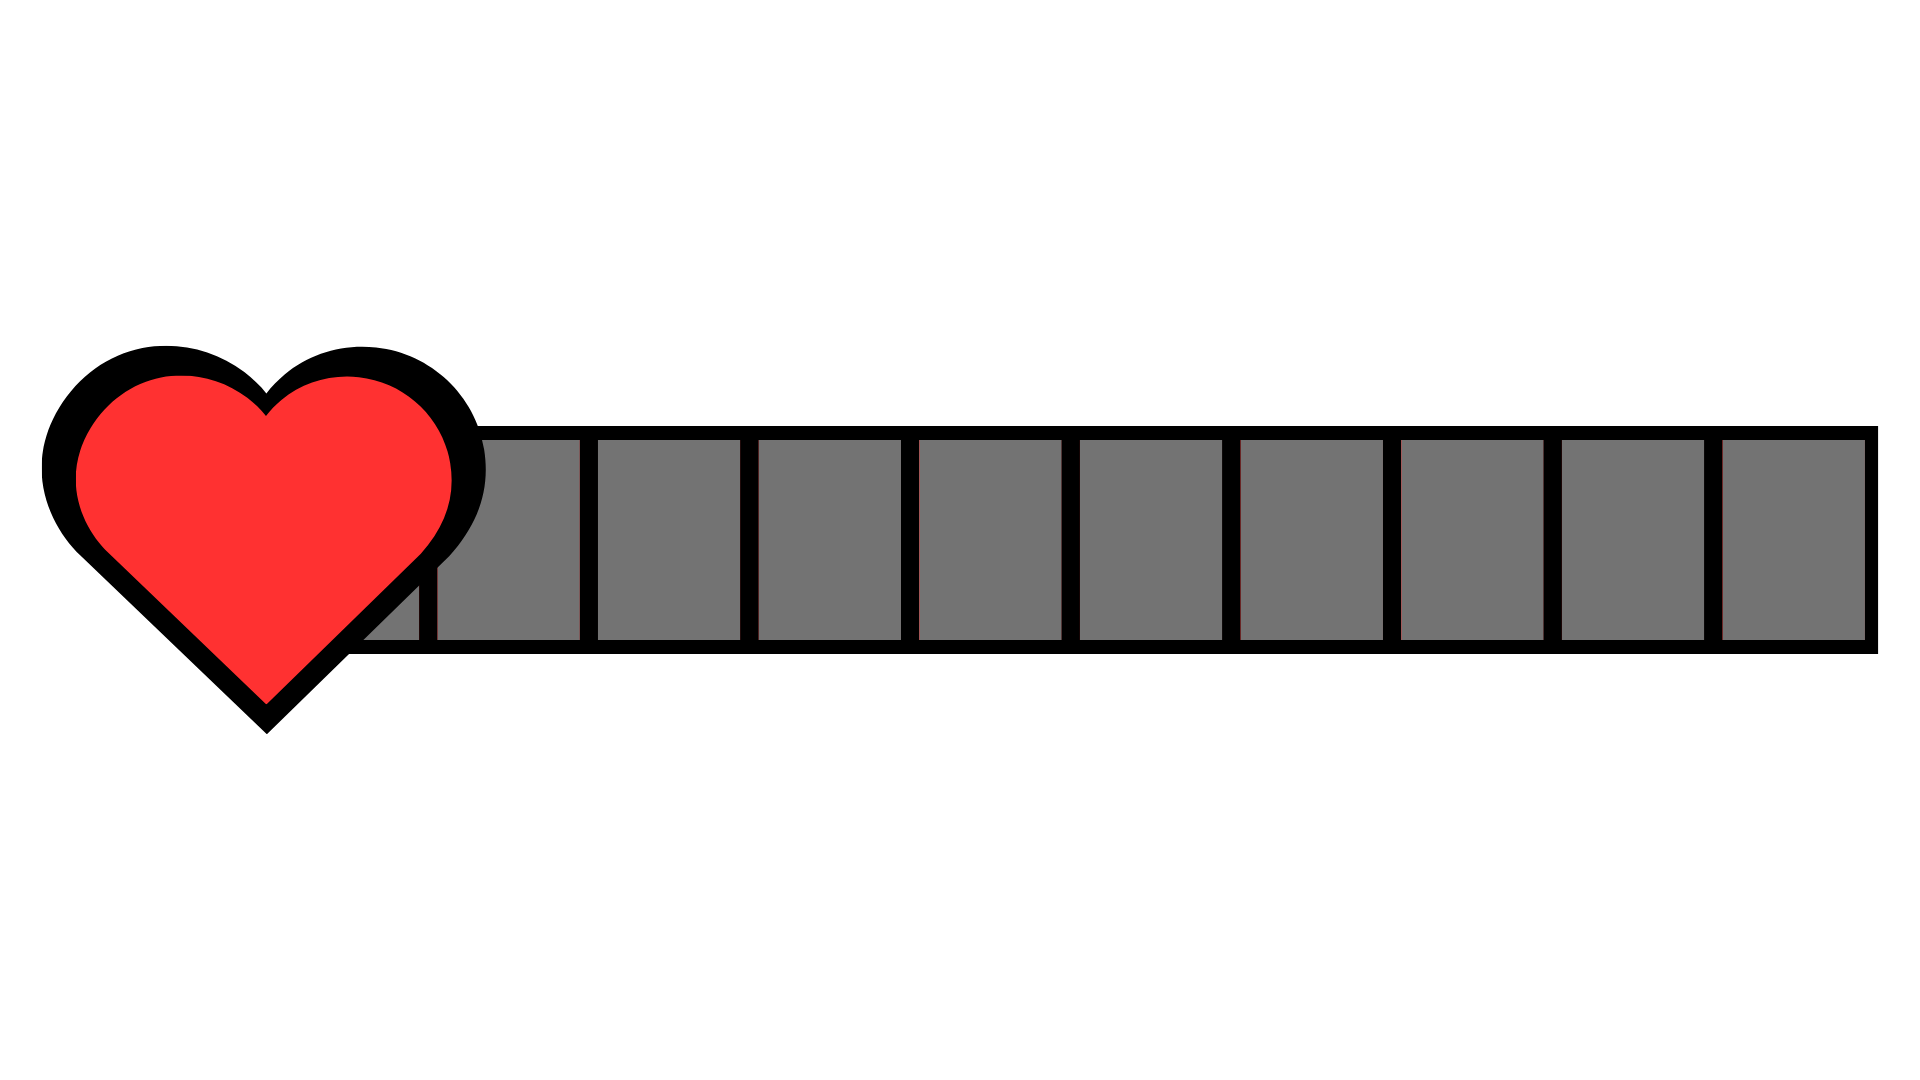
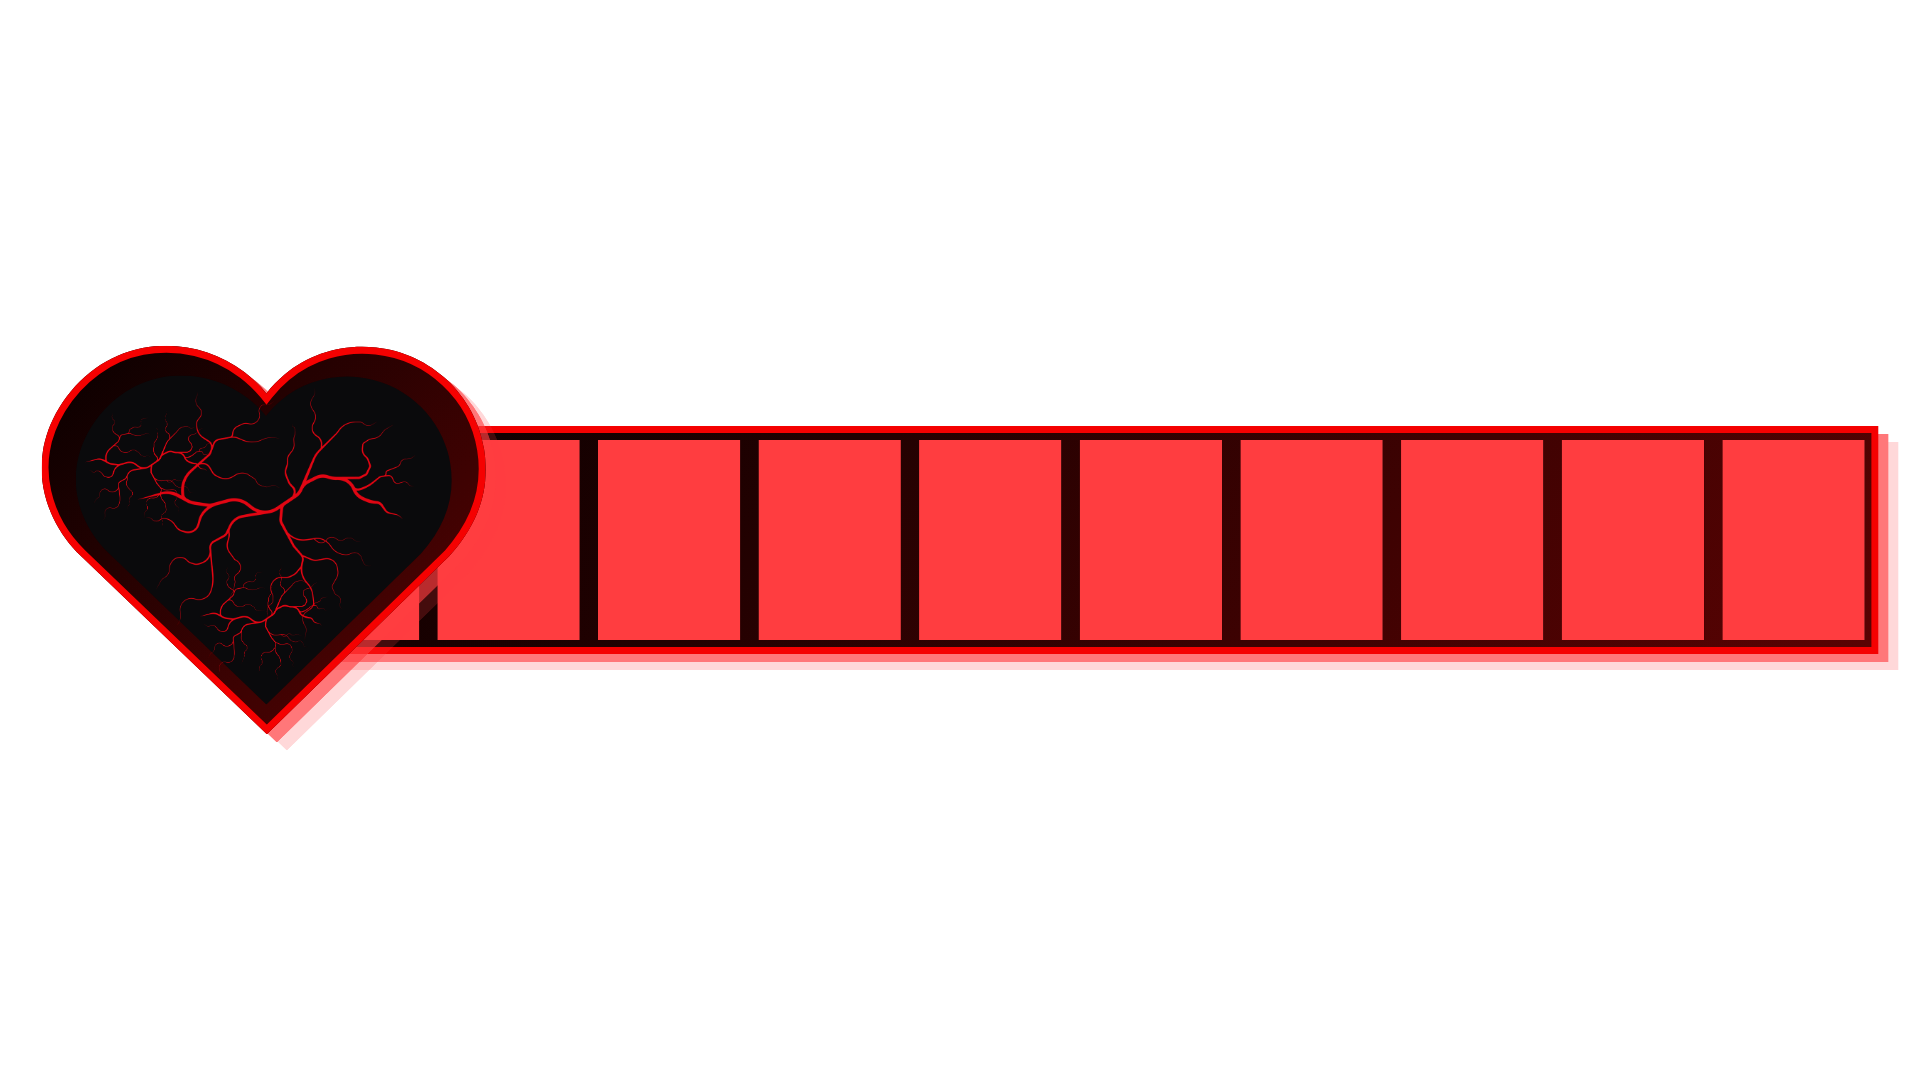
fix: changed health bar color

Changed region(s): [[0.0, 0.3056, 1.0, 0.7028]]

diff --git a/Assets/Scripts/UI/PlayerHealthHUD.cs b/Assets/Scripts/UI/PlayerHealthHUD.cs
@@ -15,7 +15,7 @@ namespace Sokophobia.UI
         [SerializeField] private Texture2D emptyHealthTexture;
 
         [Tooltip("Visible artwork bounds in the original PNG, measured from its bottom-left corner.")]
-        [SerializeField] private Rect artworkPixels = new Rect(41f, 345f, 1838f, 390f);
+        [SerializeField] private Rect artworkPixels = new Rect(39f, 327f, 1862f, 410f);
 
         [Tooltip("Left and right edges of the ten-segment bar in the original PNG, excluding the heart.")]
         [SerializeField] private Vector2 segmentRangePixels = new Vector2(267f, 1877f);
@@ -53,7 +53,7 @@ namespace Sokophobia.UI
         private void ValidateLayout()
         {
             if (artworkPixels.width <= 0f || artworkPixels.height <= 0f)
-                artworkPixels = new Rect(41f, 345f, 1838f, 390f);
+                artworkPixels = new Rect(39f, 327f, 1862f, 410f);
 
             barWidth = Mathf.Max(100f, barWidth);
         }
